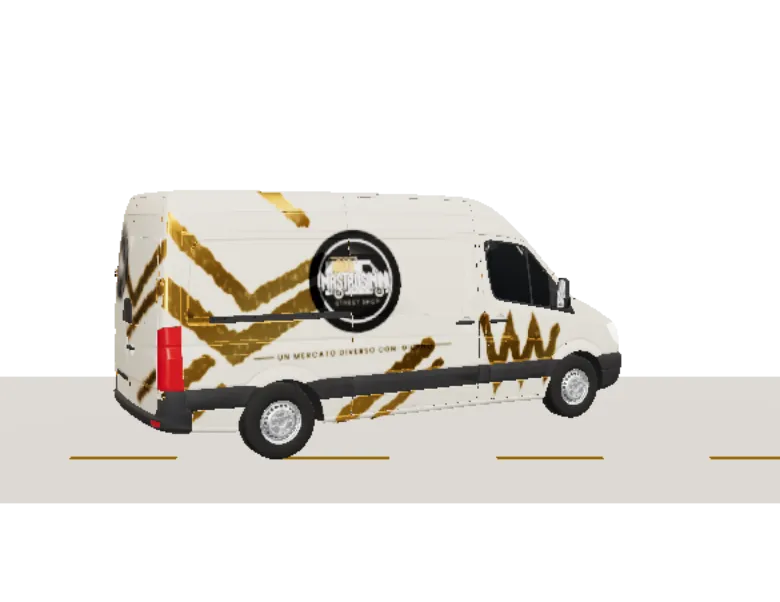
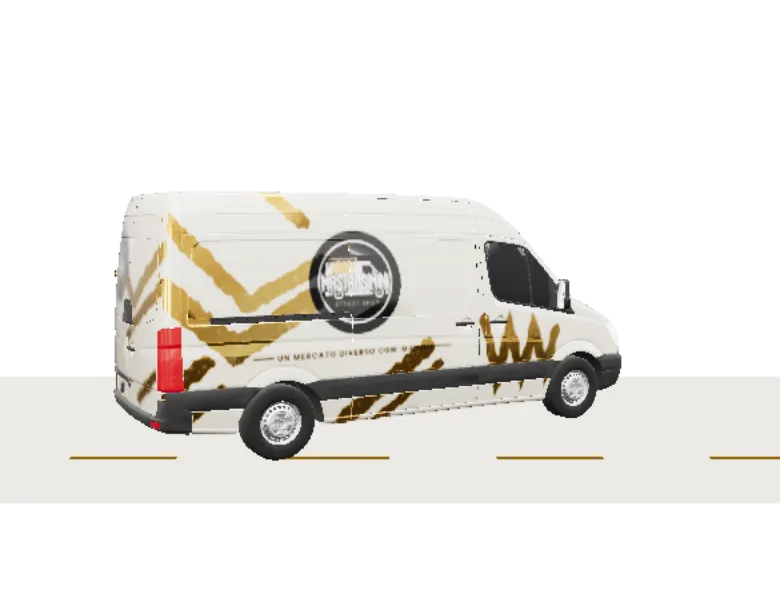
Light van: studio environment with horizon and softboxes, glossy clearcoat paint, more reflective gold; darker road; new light poster images

Changed region(s): [[0.1231, 0.299, 0.8, 0.7475], [0.3077, 0.299, 0.4, 0.3887], [0.4615, 0.299, 0.4923, 0.3289]]

diff --git a/src/components/3d/temaFurgone.ts b/src/components/3d/temaFurgone.ts
@@ -1,8 +1,8 @@
 import {
   Mesh,
+  MeshPhysicalMaterial,
   SRGBColorSpace,
   TextureLoader,
-  type Material,
   type MeshStandardMaterial,
   type Object3D,
   type Texture,
@@ -16,7 +16,7 @@ const LIVREE: Record<string, string> = {
   Livrea_sinistra: "lato-sinistro-colore",
   Livrea_retro: "retro-colore",
 };
-const VERNICE_CHIARA = "#d8d2c1";
+const VERNICE_CHIARA = "#cdc7b6";
 
 let chiare: Promise<Record<string, Texture>> | null = null;
 function caricaChiare() {
@@ -32,46 +32,58 @@ function caricaChiare() {
   return chiare;
 }
 
-function materialiDi(radice: Object3D) {
-  const trovati = new Set<MeshStandardMaterial>();
-  radice.traverse((o) => {
-    const m = (o as Mesh).material as Material | Material[] | undefined;
-    for (const x of Array.isArray(m) ? m : m ? [m] : []) trovati.add(x as MeshStandardMaterial);
-  });
-  return trovati;
+const èCarrozzeria = (m: { name: string }) => m.name === "Vernice" || m.name in LIVREE;
+
+/**
+ * Materiale "gemello" lucido per il tema chiaro: vernice crema con trasparente sopra (come una vera carrozzeria) e le pennellate oro
+ * che riflettono l'ambiente. L'originale non si tocca: tornando al tema scuro si rimette lui.
+ */
+function gemelloChiaro(m: MeshStandardMaterial, texture: Record<string, Texture>) {
+  const esistente = m.userData.gemelloChiaro as MeshPhysicalMaterial | undefined;
+  if (esistente) return esistente;
+  const g = new MeshPhysicalMaterial({ name: m.name });
+  g.roughnessMap = m.roughnessMap;
+  g.metalnessMap = m.metalnessMap;
+  g.metalness = m.metalness;
+  g.clearcoat = 1;
+  g.clearcoatRoughness = 0.05;
+  g.ior = 2; // più riflettente della vernice base: i riflessi si vedono anche su un fondo chiaro
+  if (m.name === "Vernice") {
+    g.color.set(VERNICE_CHIARA);
+    g.roughness = 0.25;
+  } else {
+    const t = texture[m.name];
+    const originale = m.map as Texture;
+    t.flipY = originale.flipY;
+    t.colorSpace = SRGBColorSpace;
+    t.wrapS = originale.wrapS;
+    t.wrapT = originale.wrapT;
+    t.anisotropy = originale.anisotropy;
+    g.map = t;
+    g.roughness = 0.6; // si moltiplica per la ruvidità della mappa: un po' più liscio del nero opaco
+  }
+  m.userData.gemelloChiaro = g;
+  return g;
 }
 
 /**
- * Furgone chiaro nel tema chiaro: carrozzeria crema con le stesse pennellate oro. Le texture chiare si scaricano solo la prima volta
- * che serve; i materiali sono condivisi tra le scene, quindi il cambio vale per tutte. Tornando al tema scuro si ripristina l'originale.
+ * Furgone chiaro nel tema chiaro: carrozzeria crema lucida con le stesse pennellate oro. Le texture chiare si scaricano solo la prima volta
+ * che serve; i materiali sono condivisi tra le scene, quindi il cambio vale per tutte.
  */
 export async function applicaTemaFurgone(radice: Object3D, tema: Tema) {
-  if (tema === "light") {
-    const texture = await caricaChiare();
-    if (leggiTema() !== "light") return; // nel frattempo è tornato scuro
-    for (const m of materialiDi(radice)) {
-      const nome = m.name;
-      if (nome === "Vernice") {
-        m.userData.coloreScuro ??= m.color.clone();
-        m.color.set(VERNICE_CHIARA);
-        m.needsUpdate = true;
-      } else if (LIVREE[nome]) {
-        const originale = (m.userData.mappaScura ??= m.map) as Texture;
-        const t = texture[nome];
-        t.flipY = originale.flipY;
-        t.colorSpace = SRGBColorSpace;
-        t.wrapS = originale.wrapS;
-        t.wrapT = originale.wrapT;
-        t.anisotropy = originale.anisotropy;
-        m.map = t;
-        m.needsUpdate = true;
+  const texture = tema === "light" ? await caricaChiare() : null;
+  if (tema === "light" && leggiTema() !== "light") return; // nel frattempo è tornato scuro
+  radice.traverse((o) => {
+    const mesh = o as Mesh;
+    const m = mesh.material as MeshStandardMaterial | undefined;
+    if (texture) {
+      if (m && !Array.isArray(m) && èCarrozzeria(m)) {
+        mesh.userData.originale = m;
+        mesh.material = gemelloChiaro(m, texture);
       }
+    } else if (mesh.userData.originale) {
+      mesh.material = mesh.userData.originale as MeshStandardMaterial;
+      delete mesh.userData.originale;
     }
-    return;
-  }
-  for (const m of materialiDi(radice)) {
-    if (m.userData.coloreScuro) m.color.copy(m.userData.coloreScuro);
-    if (m.userData.mappaScura) m.map = m.userData.mappaScura;
-    m.needsUpdate = true;
-  }
+  });
 }

diff --git a/src/components/3d/SceneBase.tsx b/src/components/3d/SceneBase.tsx
@@ -7,6 +7,7 @@ import { PMREMGenerator } from "three";
 import { RoomEnvironment } from "three/examples/jsm/environments/RoomEnvironment.js";
 import { iscriviTema, leggiTema, type Tema } from "@/lib/theme";
 import { isLowPower } from "@/lib/webgl";
+import { creaAmbienteChiaro } from "./ambienteChiaro";
 
 /** Strada con linea tratteggiata oro: asfalto scuro nel tema scuro, grigio chiaro nel tema chiaro. */
 export function Road({ length = 80 }: { length?: number }) {
@@ -17,7 +18,7 @@ export function Road({ length = 80 }: { length?: number }) {
       <mesh rotation={[-Math.PI / 2, 0, 0]} position={[0, -0.001, 0]} receiveShadow>
         <planeGeometry args={[length, 7]} />
         <meshStandardMaterial
-          color={chiaro ? "#cfccc4" : "#121212"}
+          color={chiaro ? "#a9a59a" : "#121212"}
           roughness={1}
           envMapIntensity={0.05}
         />
@@ -37,14 +38,15 @@ export function Road({ length = 80 }: { length?: number }) {
 }
 
 /** Riflessi per i materiali metallici (oro, cromature) generati in codice: nessun file HDR da scaricare. */
-function StudioReflections() {
+function StudioReflections({ chiaro }: { chiaro: boolean }) {
   const gl = useThree((s) => s.gl);
   const env = useMemo(() => {
+    if (chiaro) return creaAmbienteChiaro(gl);
     const pmrem = new PMREMGenerator(gl);
     const tex = pmrem.fromScene(new RoomEnvironment(), 0.04).texture;
     pmrem.dispose();
     return tex;
-  }, [gl]);
+  }, [gl, chiaro]);
   useEffect(() => () => env.dispose(), [env]);
   return <primitive object={env} attach="environment" />;
 }
@@ -127,26 +129,26 @@ export function SceneCanvas({
         shadows={!low}
         camera={{ position: camera, fov: 38 }}
         gl={{ antialias: !low, powerPreference: "high-performance" }}
-        scene={{ environmentIntensity: tema === "light" ? 0.55 : 0.9 }}
+        scene={{ environmentIntensity: tema === "light" ? 1.2 : 0.9 }}
         aria-hidden="true"
       >
         {!senzaSfondo && (
           <color attach="background" args={[tema === "light" ? "#f4f4f2" : "#0c0c0c"]} />
         )}
-        <hemisphereLight args={["#ffffff", "#1a1208", tema === "light" ? 0.3 : 0.5]} />
+        <hemisphereLight args={["#ffffff", "#1a1208", tema === "light" ? 0.15 : 0.5]} />
         <directionalLight
           position={[4, 6, 5]}
-          intensity={tema === "light" ? 1.6 : 2.4}
+          intensity={tema === "light" ? 0.8 : 2.4}
           color="#fff3e0"
           castShadow={!low}
         />
         <directionalLight
           position={[-5, 3, -4]}
-          intensity={tema === "light" ? 1.1 : 1.6}
+          intensity={tema === "light" ? 1.2 : 1.6}
           color="#d4a85c"
         />
         <FitCamera base={camera[2]} />
-        <StudioReflections />
+        <StudioReflections chiaro={tema === "light"} />
         <Suspense fallback={null}>{children}</Suspense>
         {!low && (
           <ContactShadows position={[0, 0.01, 0]} opacity={0.6} scale={14} blur={2.2} far={3} />

diff --git a/src/components/3d/ambienteChiaro.ts b/src/components/3d/ambienteChiaro.ts
@@ -1,0 +1,76 @@
+import {
+  BackSide,
+  Color,
+  DoubleSide,
+  Float32BufferAttribute,
+  Mesh,
+  MeshBasicMaterial,
+  PlaneGeometry,
+  PMREMGenerator,
+  Scene,
+  SphereGeometry,
+  type Texture,
+  type WebGLRenderer,
+} from "three";
+
+/** Colore del cielo/terra in base all'altezza (y da -1 a 1): cielo chiaro in alto, orizzonte morbido, terra più scura (la strada). */
+function coloreAltezza(y: number) {
+  const mix = (a: number, b: number, t: number) => a + (b - a) * t;
+  const sm = (a: number, b: number, v: number) => {
+    const t = Math.min(1, Math.max(0, (v - a) / (b - a)));
+    return t * t * (3 - 2 * t);
+  };
+  const terra = 0.08;
+  const orizzonte = 0.5;
+  const cielo = 1.2;
+  const base = mix(terra, orizzonte, sm(-0.12, 0.06, y));
+  return mix(base, cielo, sm(0.06, 0.9, y));
+}
+
+/** Striscia luminosa (softbox) rivolta verso il centro: è ciò che si vede riflesso come "lampo" sulla vernice. */
+function striscia(
+  larghezza: number,
+  altezza: number,
+  intensita: number,
+  x: number,
+  y: number,
+  z: number,
+) {
+  const m = new MeshBasicMaterial({ side: DoubleSide });
+  m.color.setScalar(intensita);
+  const mesh = new Mesh(new PlaneGeometry(larghezza, altezza), m);
+  mesh.position.set(x, y, z);
+  mesh.lookAt(0, 0, 0);
+  return mesh;
+}
+
+/**
+ * Ambiente da studio fotografico per il furgone chiaro, generato in codice (nessun file da scaricare):
+ * orizzonte con cielo e terra, un grande pannello sopra e strisce laterali. Con la vernice lucida produce i riflessi di una foto d'auto.
+ */
+export function creaAmbienteChiaro(gl: WebGLRenderer): Texture {
+  const scena = new Scene();
+  const geo = new SphereGeometry(60, 48, 24);
+  const pos = geo.getAttribute("position");
+  const col: number[] = [];
+  for (let i = 0; i < pos.count; i++) {
+    const v = coloreAltezza(pos.getY(i) / 60);
+    col.push(v * 1.0, v * 0.985, v * 0.95); // leggermente caldo, come la luce del mercato
+  }
+  geo.setAttribute("color", new Float32BufferAttribute(col, 3));
+  scena.add(new Mesh(geo, new MeshBasicMaterial({ vertexColors: true, side: BackSide })));
+  scena.add(striscia(46, 26, 7, 0, 36, 4)); // pannello grande sopra
+  scena.add(striscia(7, 34, 5, -34, 12, 8)); // striscia lunga a sinistra
+  scena.add(striscia(7, 34, 4.2, 34, 12, -6)); // striscia lunga a destra
+  scena.add(striscia(30, 5, 3.5, 0, 6, -40)); // fascia dietro, per i bordi
+  // davanti al furgone (dietro la telecamera): è ciò che si specchia sulla fiancata che si vede
+  scena.add(striscia(24, 15, 6.5, -14, 11, 42)); // pannello morbido
+  scena.add(striscia(5, 26, 5.5, 20, 7, 40)); // striscia verticale
+  scena.add(striscia(30, 4, 3, 0, 22, 36)); // fascia alta
+  scena.background = new Color(0x000000);
+  const pmrem = new PMREMGenerator(gl);
+  const tex = pmrem.fromScene(scena, 0.015).texture;
+  pmrem.dispose();
+  geo.dispose();
+  return tex;
+}
